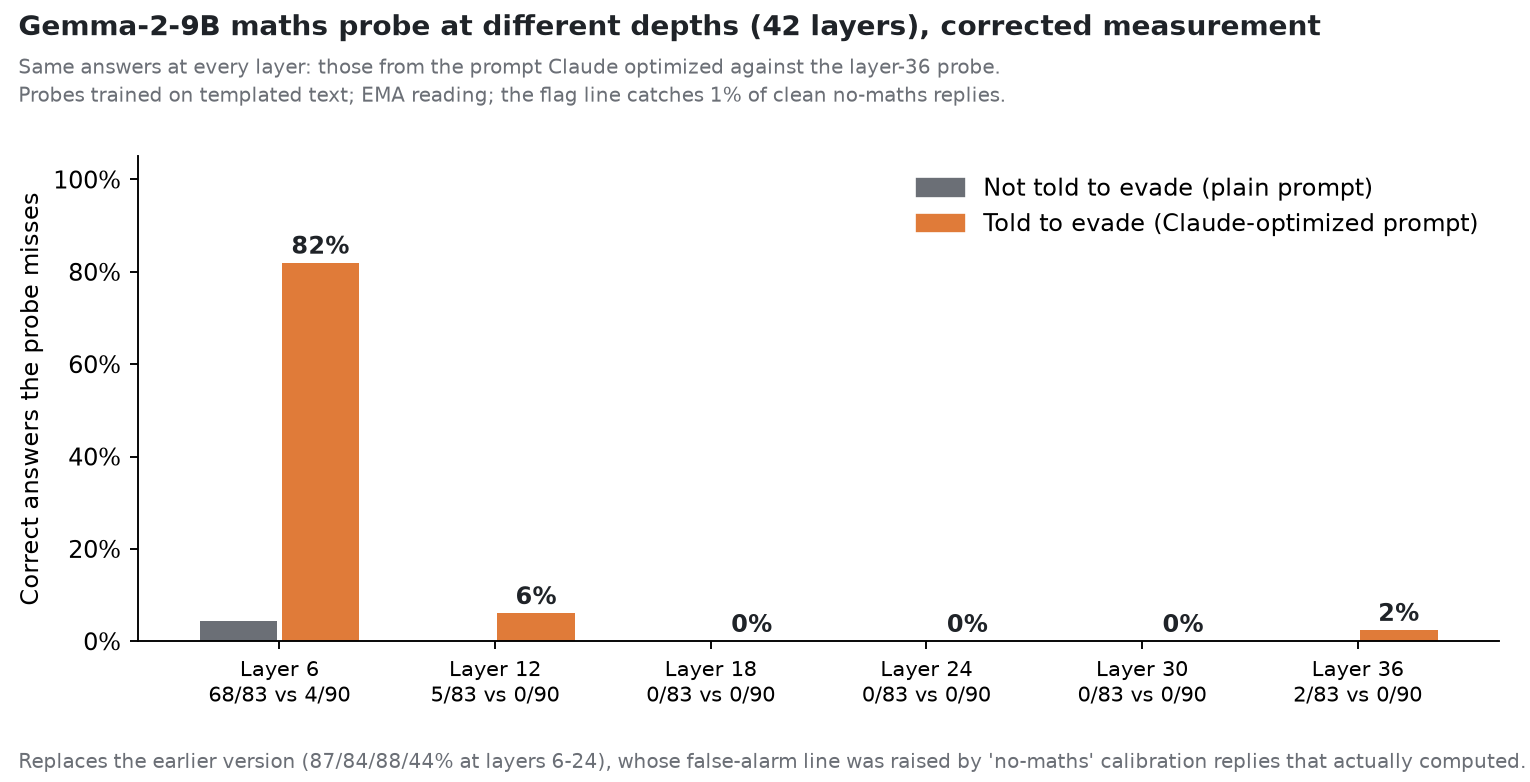
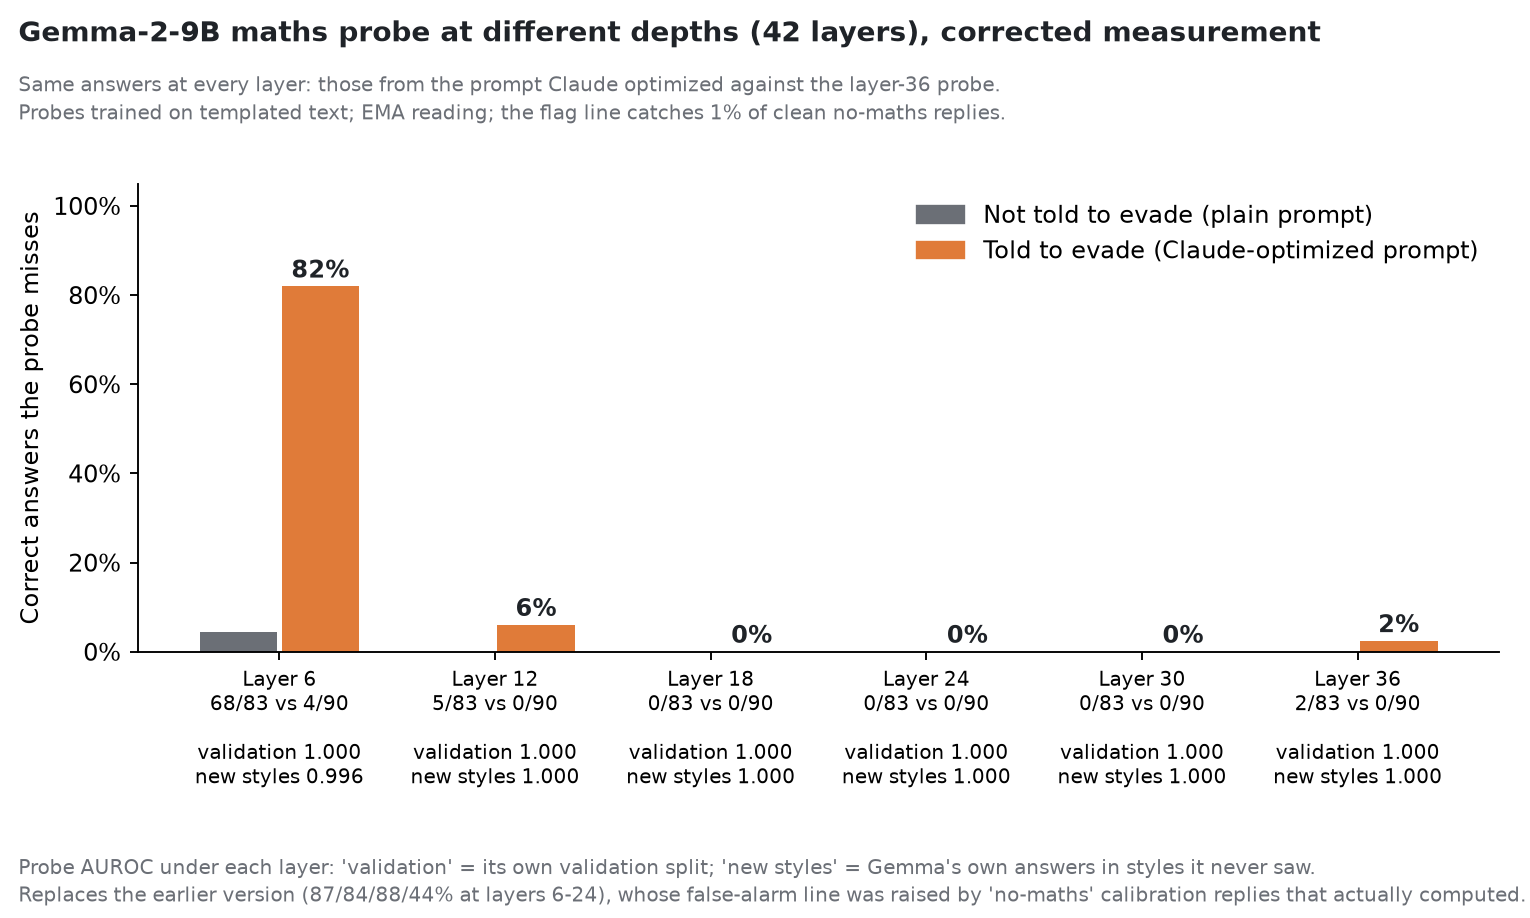
Layer plot: probe validation AUROC per layer

diff --git a/src/probe_evasion/james_report.py b/src/probe_evasion/james_report.py
@@ -106,13 +106,16 @@ def layers_figure(out: Path = Path("share/james_layers.png")) -> Path:
     probe at each layer, vs plain-prompt answers, under the corrected measurement."""
     layers = (6, 12, 18, 24, 30, 36)
     data = [gemma_layer(l) for l in layers]
-    fig, ax = plt.subplots(figsize=(9, 4.6), dpi=170)
+    ladder = read(G / "gemma_maths_window_L36_20261007-154620" / "ladder_gemma_maths_layers.json")["results"]
+    heldout = read(P / "gemma_maths_layers_heldout_eval_clean.json")
+    auroc = [(ladder[f"maths@L{l}"]["val_auroc_training_style"], heldout[f"maths@L{l}"]["ema"]) for l in layers]
+    fig, ax = plt.subplots(figsize=(9, 5.4), dpi=170)
     for i, ((k, n), (pk, pn)) in enumerate(data):
         for dx, (a, b), colour in ((-0.19, (pk, pn), GREY), (0.19, (k, n), ORANGE)):
             ax.bar(i + dx, a / b, width=0.36, color=colour)
         ax.text(i + 0.19, k / n + 0.02, f"{100 * k / n:.0f}%", ha="center", fontsize=10, fontweight="bold", color=INK)
-    ax.set_xticks(range(len(layers)), [f"Layer {l}\n{k}/{n} vs {pk}/{pn}" for l, ((k, n), (pk, pn)) in zip(layers, data)],
-                  fontsize=9)
+    ax.set_xticks(range(len(layers)), [f"Layer {l}\n{k}/{n} vs {pk}/{pn}\n\nvalidation {v:.3f}\nnew styles {h:.3f}"
+                                       for l, ((k, n), (pk, pn)), (v, h) in zip(layers, data, auroc)], fontsize=8.6)
     ax.set_ylim(0, 1.05)
     ax.yaxis.set_major_formatter(plt.FuncFormatter(lambda v, _: f"{100 * v:.0f}%"))
     ax.set_ylabel("Correct answers the probe misses")
@@ -124,9 +127,10 @@ def layers_figure(out: Path = Path("share/james_layers.png")) -> Path:
     fig.text(0.012, 0.87, "Same answers at every layer: those from the prompt Claude optimized against the layer-36 probe.\n"
              "Probes trained on templated text; EMA reading; the flag line catches 1% of clean no-maths replies.", fontsize=8.5,
              color=GREY, linespacing=1.4)
-    fig.text(0.012, 0.018, "Replaces the earlier version (87/84/88/44% at layers 6-24), whose false-alarm line was raised by "
-             "'no-maths' calibration replies that actually computed.", fontsize=8.3, color=GREY)
-    fig.subplots_adjust(left=0.09, right=0.98, top=0.8, bottom=0.18)
+    fig.text(0.012, 0.018, "Probe AUROC under each layer: 'validation' = its own validation split; 'new styles' = Gemma's own answers in styles "
+             "it never saw.\nReplaces the earlier version (87/84/88/44% at layers 6-24), whose false-alarm "
+             "line was raised by 'no-maths' calibration replies that actually computed.", fontsize=8.3, color=GREY, linespacing=1.4)
+    fig.subplots_adjust(left=0.09, right=0.98, top=0.8, bottom=0.29)
     fig.savefig(out)
     return out
 
